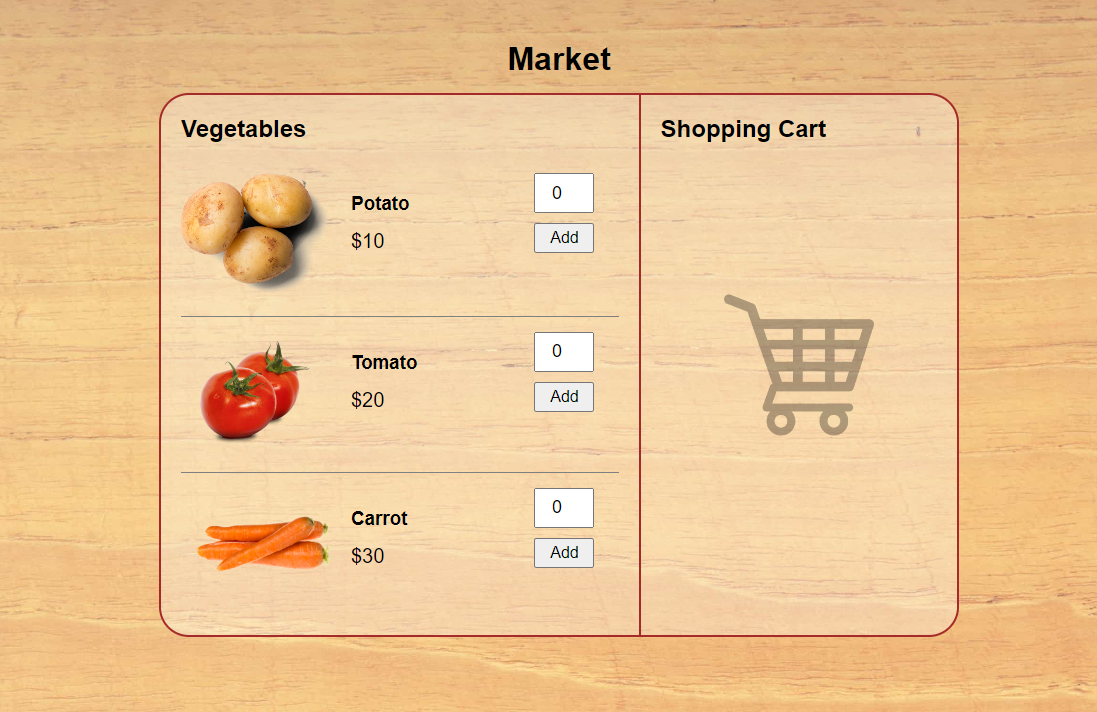
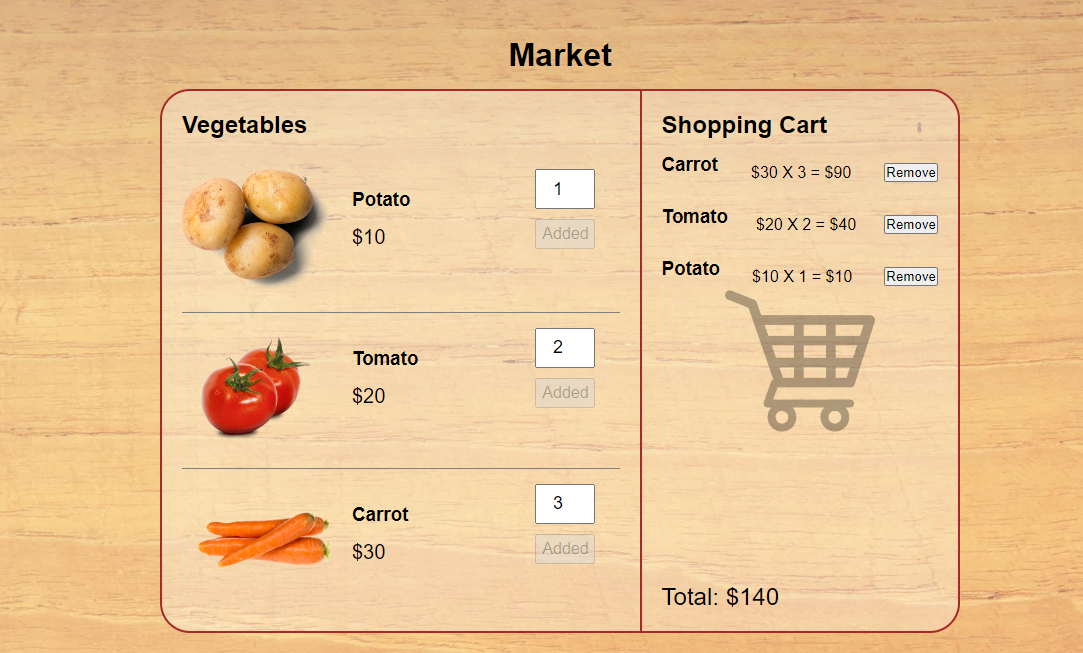
Translated

diff --git a/script.js b/script.js
@@ -24,7 +24,7 @@ function addToCart(element) {
 
         document.querySelector('.total').innerText = `Total: $${allTotal}`;
 
-        element.innerText = 'Dodato'; // menjamo tekst dugmeta na 'dodato'
+        element.innerText = 'Added'; // menjamo tekst dugmeta na 'dodato'
         element.setAttribute('disabled', 'true'); // onemogucavamo dugme tako da ne moze da se pritiska nakon sto je dodato vec
 
     } else {
